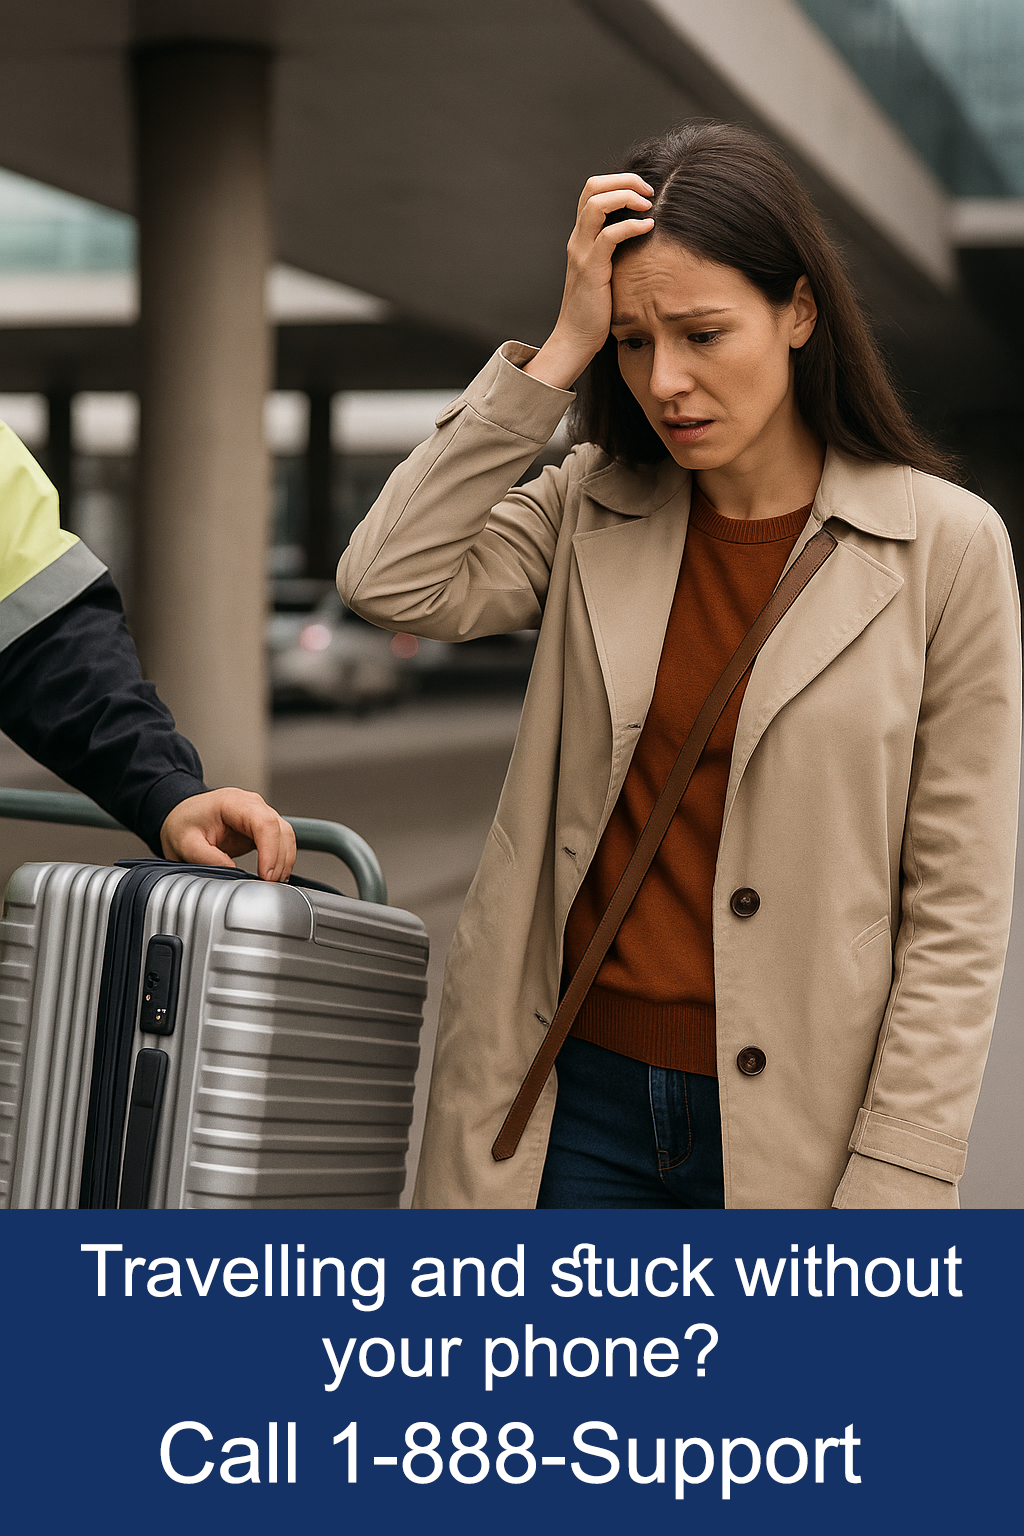
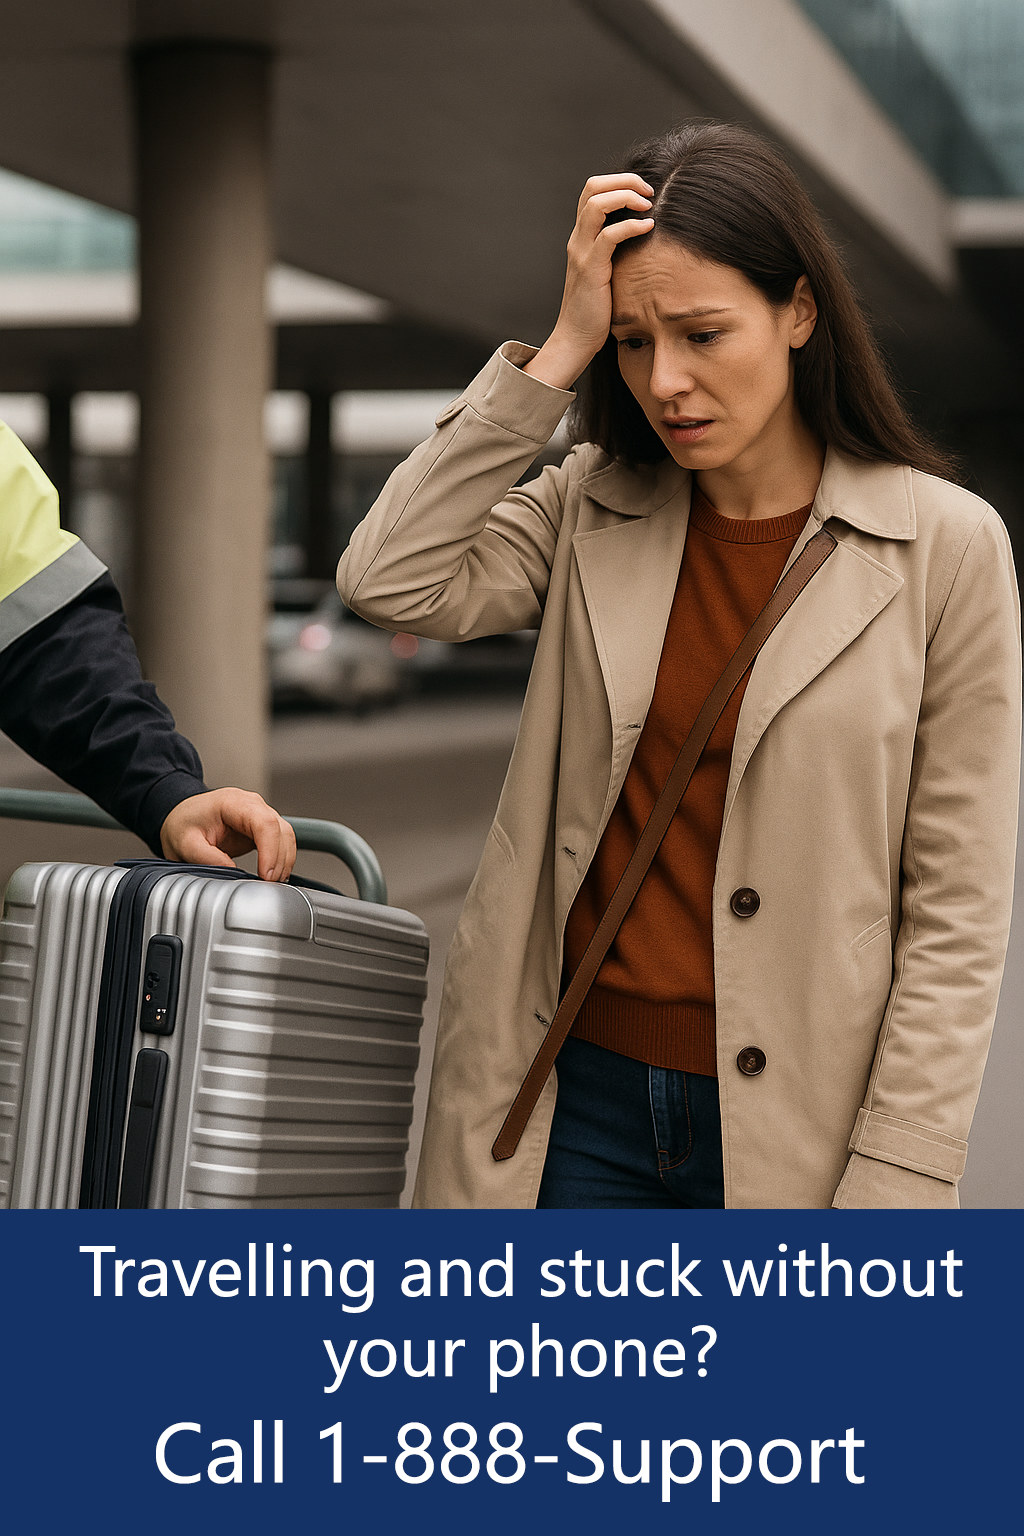
update landing page for font family

Changed region(s): [[0.0938, 0.8125, 0.9375, 1.0]]

diff --git a/src/components/Proof/index.tsx b/src/components/Proof/index.tsx
@@ -17,7 +17,7 @@ const Proof = () => {
                             Simple, Private, Carrier-grade
                         </h2>
                         <p className="text-lg mt-4 text-bluegray">
-                            Dial one 888 number, search by voice or keypad, and connect instantly.
+                            Dial one 888-support number, search by voice or keypad, and connect instantly.
                             Your contacts stay encrypted, and calls route over reliable carrier-grade
                             infrastructure for clear, dependable connections.
                         </p>

diff --git a/src/components/Navbar/Navbar.tsx b/src/components/Navbar/Navbar.tsx
@@ -137,6 +137,7 @@ const Navbar = () => {
                   </div>
                 </>
               ) : (
+                <div className="hidden lg:flex items-center gap-4">
                 <Menu as="div" className="relative">
                   <Menu.Button className="flex items-center focus:outline-none">
                     {/* User avatar or fallback circle with first letter */}
@@ -183,6 +184,7 @@ const Navbar = () => {
                     </Menu.Items>
                   </Transition>
                 </Menu>
+                </div>
               )}
             </div>
 

diff --git a/src/components/Contacts/index.tsx b/src/components/Contacts/index.tsx
@@ -293,7 +293,7 @@ export default function ContactsPage() {
 
         {/* CONTACT LIST */}
         {filteredContacts.length > 0 ? (
-          <ul className="mt-8 mb-8 grid grid-cols-1 gap-5 sm:grid-cols-2 lg:grid-cols-3">
+          <ul className="mt-8 mb-12 grid grid-cols-1 gap-5 sm:grid-cols-2 lg:grid-cols-3">
             {filteredContacts.map((contact) => (
               <li
                 key={contact.id}
